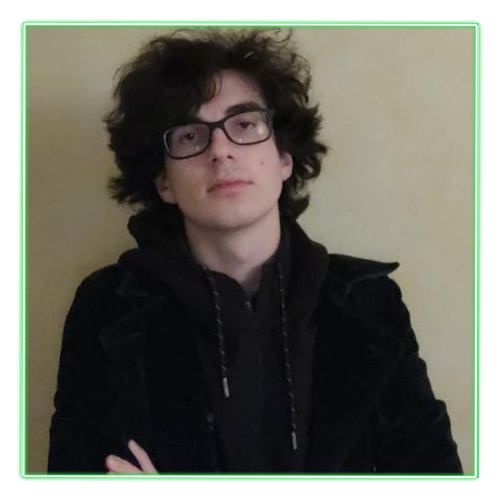
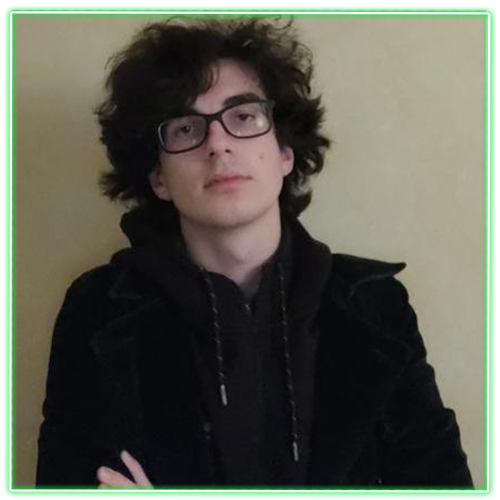
ouéouéoué

diff --git a/equipe.html b/equipe.html
@@ -35,7 +35,7 @@
             <h1>Notre equipe</h1>
             <div class="main2">
             <!-- Quentin -->
-            <div class="overlay-image">
+            <div class="overlay-image" class="A">
                 <img class="image" src="images/Quentin_Arzalier.png" alt="Quentin Arzalier" />
 
                 <div class="hover">
@@ -48,7 +48,7 @@
             </div>
 
             <!-- Alexandre -->
-            <div class="overlay-image">
+            <div class="overlay-image" class="B">
                 <img class="image" src="images/Alexandre_Machu.png" alt="Alexandre Machu" />
 
                 <div class="hover">
@@ -61,7 +61,7 @@
             </div>
 
             <!-- Mathis -->
-            <div class="overlay-image">
+            <div class="overlay-image" class="C">
                 <img class="image" src="images/Mathis_Richard.png" alt="Mathis Richard" />
 
                 <div class="hover">
@@ -74,7 +74,7 @@
             </div>
 
             <!-- Loïc -->
-            <div class="overlay-image">
+            <div class="overlay-image" class="D">
                 <img class="image" src="images/Loïc_Gestin.png" alt="Loic Gestin" />
 
                 <div class="hover">
@@ -87,7 +87,7 @@
             </div>
 
             <!-- Logan -->
-            <div class="overlay-image">
+            <div class="overlay-image" class="E">
                 <img class="image" src="images/Logan_DeJesus.png" alt="Logan De Jesus" />
 
                 <div class="hover">

diff --git a/css/stylesÉquipe.css b/css/stylesÉquipe.css
@@ -44,23 +44,22 @@ h1 {
     position: relative;
     display: inline-block;
     padding-left: 50px;
-    max-width: 500px;
-    max-height: 500px;
+    max-width: 300px;
+    max-height: 300px;
 }
 
 .overlay-image .image {
     display: inline;
-    width: 500px;
-    height: 500px;
+    width: 300px;
+    height: 300px;
 }
 
 .overlay-image .hover {
     position: absolute;
-    top: 10px;
-    right: 10px;
     opacity: 0;
     transition: .5s ease;
     background-color: rgba(0,0,0,0.5);
+    box-shadow: -1px 2px 70px 3px rgba(236, 8, 236, 0.7);
 }
    
 .overlay-image:hover .hover {
@@ -69,8 +68,6 @@ h1 {
 
 .overlay-image .hover2 {
     position: absolute;
-    top: 10px;
-    right: 10px;
     opacity: 0;
     transition: .5s ease;
     background-color: rgba(0,0,0,0.5);
@@ -84,11 +81,22 @@ h1 {
     display: block;
     position: absolute;
     float: left;
-    box-shadow: -1px 2px 70px 3px rgba(236, 8, 236, 0.7);
+
     line-height: 1px;
 }
 
-.image2, .image3, .overlay-image .hover, .overlay-image .hover2{
-    height: 480px;
-    width: 480px;
+.image2, .image3, .hover, .hover2{
+    height: 280px;
+    width: 280.5px;
+}
+
+.hover, .hover2{
+    top: 11px;
+    right: 9.6px;
+}
+
+/* Layout */
+.A{
+    top: 100px;
+    right: 900px;
 }
